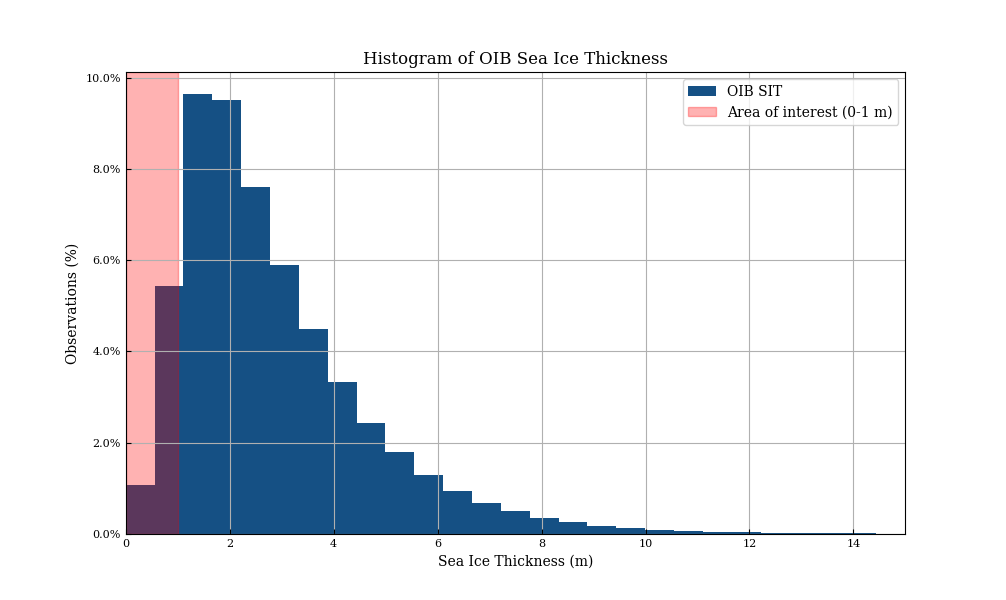
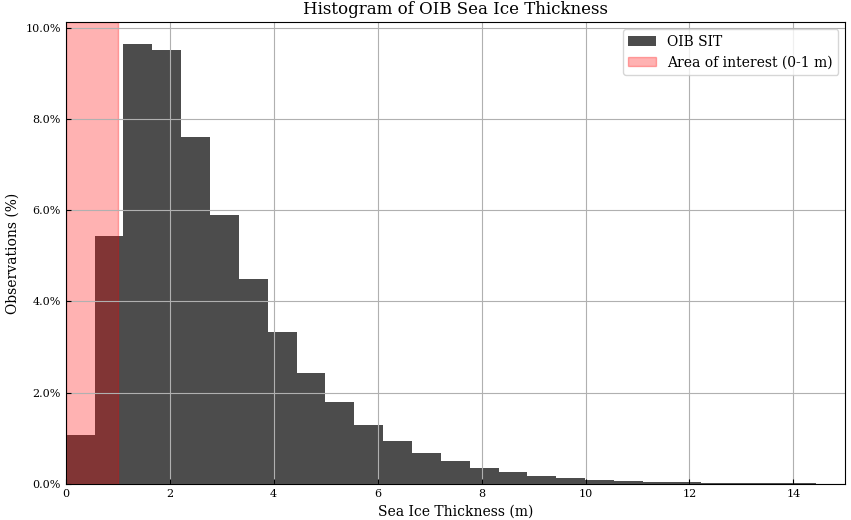
added new figures, started on the box plot

diff --git a/Data processing/Code/test/test_oib.py b/Data processing/Code/test/test_oib.py
@@ -383,7 +383,7 @@ def histogram_oib(data):
 
 	# Create histogram
 	plt.figure(figsize=(10, 6))
-	plt.hist(all_sit, bins=50, label='OIB SIT', color='#155084', weights=np.ones_like(all_sit) / len(all_sit))
+	plt.hist(all_sit, bins=50, label='OIB SIT', color='black', alpha=0.7, weights=np.ones_like(all_sit) / len(all_sit))
 	plt.axvspan(0, 1, color='red', alpha=0.3, label='Area of interest (0-1 m)')
 	#plt.axvline(x=1, color='red', linestyle='--', alpha=0.5)
 	# add thicks inside the histogram
@@ -398,79 +398,139 @@ def histogram_oib(data):
 	plt.show()
  
 def bar__hist_plot(data):
+	bins = [0, 0.2, 0.4, 0.6, 0.8, 1]
+	bin_labels = ['0-0.2', '0.2-0.4', '0.4-0.6', '0.6-0.8', '0.8-1']
+	
+	# unpacking the resampled data
+	oib_sit = data['oib']
+	smos_sit = data['smos']
+	cryo_sit = data['uit'][2]  # Assuming the third element is the SIT data
+	
+	# Flatten the list of arrays into a single array
+	oib = np.concatenate(oib_sit)
+	smos = np.concatenate(smos_sit)
+	cryo = np.concatenate(cryo_sit)
+	
+	nan_mask = ~np.isnan(oib) & ~np.isnan(smos) & ~np.isnan(cryo)
+	oib, smos, cryo = [arr[nan_mask] for arr in (oib, smos, cryo)]
+		
+	smos_means = []
+	cryo_means = []
+	for i in range(len(bins)-1): #
+		bin_mask = (oib >= bins[i]) & (oib < bins[i+1])
+		smos_means.append(np.mean(smos[bin_mask])) 
+		cryo_means.append(np.mean(cryo[bin_mask]))
+
+	# Set up the figure with one main plot and two smaller plots
+	fig = plt.figure(figsize=(10, 10))
+
+	# Layout parameters
+	box_size = 0.35
+	main_height = 0.5
+	gap = (1 - 2 * box_size) / 3
+	gap_main = (1 - main_height - box_size) / 3
+
+	# Create axes
+	ax_main = fig.add_axes([gap, 2 * gap_main + box_size, 1 - 2 * gap, main_height])
+	ax_left = fig.add_axes([gap, gap_main, box_size, box_size])
+	ax_right = fig.add_axes([2 * gap + box_size, gap_main, box_size, box_size])
+
+	# --- Main plot: Bar plot ---
+	x = np.arange(len(bin_labels))
+	width = 0.35  # width of the bars
+
+	ax_main.bar(x - width/2, smos_means, width, label='SMOS', color='blue', alpha=0.7)
+	ax_main.bar(x + width/2, cryo_means, width, label='UiT', color='green', alpha=0.7)
+	ax_main.set_ylabel('Mean SIT [m]')
+	ax_main.set_xlabel('OIB SIT bins [m]')
+	ax_main.tick_params(axis='both', direction='in')
+	ax_main.set_xticks(x)
+	ax_main.set_xticklabels(bin_labels)
+	ax_main.legend(frameon=False)
+	ax_main.grid(axis='y', linestyle='--', alpha=0.5)
+ 
+	# histogram mask
+	range_mask = (oib >= 0) & (oib <= 1)
+	oib_m, smos_m, cryo_m = oib[range_mask], smos[range_mask], cryo[range_mask]
+	bin_edges=np.linspace(0,1,11)
+ 
+	# --- Bottom left plot: Histogram OIB vs Cryo ---
+	ax_left.hist(oib_m, bins=bin_edges, alpha=0.7, label='OIB', color='black', density=True)
+	ax_left.hist(cryo_m, bins=bin_edges, edgecolor='green', color="green", fill=True, linewidth=1, hatch='xx', alpha=0.7, label='UiT', density=True)
+	ax_left.tick_params(axis='both', direction='in')
+	ax_left.set_xlabel('SIT [m]')
+	ax_left.set_ylabel('Counts')
+	ax_left.yaxis.set_major_formatter(PercentFormatter(1))
+	ax_left.grid(alpha=0.5, linestyle='--')
+	ax_left.legend(loc='upper center', bbox_to_anchor=(0.5, 1.08), ncol=2, mode="expand", borderaxespad=0.0, handletextpad=0.3, frameon=False) 
+	
+
+	# --- Bottom right plot: Histogram OIB vs SMOS ---
+	ax_right.hist(oib_m, bins=bin_edges, alpha=0.7, label='OIB', color='black', density=True)
+	ax_right.hist(smos_m, bins=bin_edges, edgecolor='blue', color="blue", fill=True, linewidth=1, hatch='xx', alpha=0.7, label='SMOS', density=True)
+	ax_right.set_xlabel('SIT [m]')
+	ax_right.tick_params(axis='both', direction='in')
+	ax_right.yaxis.set_major_formatter(PercentFormatter(1))
+	ax_right.grid(alpha=0.5, linestyle='--')
+	ax_right.legend(loc='upper center', bbox_to_anchor=(0.5, 1.08), ncol=2, mode="expand", borderaxespad=0.0, handletextpad=0.3, frameon=False)
+
+	plt.show()
+	
+	
+def box_plot(data):
     bins = [0, 0.2, 0.4, 0.6, 0.8, 1]
     bin_labels = ['0-0.2', '0.2-0.4', '0.4-0.6', '0.6-0.8', '0.8-1']
-    
-    # unpacking the resampled data
-    oib_sit = data['oib']
-    smos_sit = data['smos']
-    cryo_sit = data['uit'][2]  # Assuming the third element is the SIT data
-    
-    # Flatten the list of arrays into a single array
-    all_oib = np.concatenate(oib_sit)
-    all_smos = np.concatenate(smos_sit)
-    all_cryo = np.concatenate(cryo_sit)
-    
-    # mask
-    mask = (all_oib >= 0) & (all_oib <= 1)
-    oib = all_oib[mask]
-    smos = all_smos[mask]
-    cryo = all_cryo[mask]
-    
-    smos_means = []
-    cryo_means = []
-    for i in range(len(bins)-1):
-        bin_mask = (oib >= bins[i]) & (oib < bins[i+1])
-        smos_means.append(np.mean(smos[bin_mask]))
-        cryo_means.append(np.mean(cryo[bin_mask]))
+ 
+    # --- Unpack ---
+    oib_sit = data['oib']['sit']
+    smos_sit = data['smos']['sit']
+    cryo_sit = data['uit'][2] # <--- Corrected here
 
-    # Set up the figure with one main plot and two smaller plots
-    fig = plt.figure(figsize=(10, 10))
+    # Flatten
+    oib = np.concatenate(oib_sit)
+    smos = np.concatenate(smos_sit)
+    cryo = np.concatenate(cryo_sit)
 
-    # Layout parameters
-    box_size = 0.4
-    main_height = 0.5
-    gap = (1 - 2 * box_size) / 3
-    gap_main = (1 - main_height - box_size) / 3
+    # Handle NaNs
+    valid_mask = ~np.isnan(oib) & ~np.isnan(cryo) & ~np.isnan(smos)
+    oib, cryo, smos = oib[valid_mask], cryo[valid_mask], smos[valid_mask]
+	
+    # Bin
+    binned_oib_cryo_data, binned_oib_smos_data = [], []
+    for i in range(len(bins) - 1):
+        bin_mask = (oib >= bins[i]) & (oib < bins[i + 1])
+        binned_oib_cryo_data.append(cryo[bin_mask])
+        binned_oib_smos_data.append(smos[bin_mask])
+  
+    # --- Plot ---
+    fig = plt.figure(figsize=(10, 10))  # 10x10 figure size
+    box_width = 0.4
+    gap = (1 - 2 * box_width) / 3
 
-    # Create axes
-    ax_main = fig.add_axes([gap, 2 * gap_main + box_size, 1 - 2 * gap, main_height])
-    ax_left = fig.add_axes([gap, gap_main, box_size, box_size])
-    ax_right = fig.add_axes([2 * gap + box_size, gap_main, box_size, box_size])
+    ax1 = fig.add_axes([gap, 0.2, box_width, 0.6])
+    ax2 = fig.add_axes([2 * gap + box_width, 0.2, box_width, 0.6])
 
-    # --- Main plot: Bar plot ---
-    x = np.arange(len(bin_labels))
-    width = 0.35  # width of the bars
+    # Left box plot
+    ax1.boxplot(binned_oib_cryo_data, positions=np.arange(len(bin_labels)), 
+                medianprops=dict(color='black'), patch_artist=True, showfliers=False,
+                boxprops=dict(facecolor='lightgray', alpha=0.6))
+    ax1.scatter(np.repeat(np.arange(len(bin_labels)), [len(d) for d in binned_oib_cryo_data]),
+                np.concatenate(binned_oib_cryo_data), color='green', alpha=0.7)
+    ax1.set_xticks(np.arange(len(bin_labels)))
+    ax1.set_xticklabels(bin_labels)
+    ax1.set_title('Cryo')
 
-    ax_main.bar(x - width/2, smos_means, width, label='SMOS', color='blue')
-    ax_main.bar(x + width/2, cryo_means, width, label='Cryo', color='salmon')
-    ax_main.set_ylabel('Mean SIT [m]')
-    ax_main.set_xlabel('OIB SIT bins [m]')
-    ax_main.set_title('Mean SIT from SMOS and Cryo by OIB bins')
-    ax_main.set_xticks(x)
-    ax_main.set_xticklabels(bin_labels)
-    ax_main.legend()
-    ax_main.grid(True)
-
-    # --- Bottom left plot: Histogram OIB vs Cryo ---
-    ax_left.hist(oib, bins=10, alpha=0.7, label='OIB', color='black')
-    ax_left.hist(cryo, bins=10, alpha=0.7, label='Cryo', color='green')
-    ax_left.legend()
-    ax_left.grid(True)
-
-    # --- Bottom right plot: Histogram OIB vs SMOS ---
-    ax_right.hist(oib, bins=10, alpha=0.7, label='OIB', color='black')
-    ax_right.hist(smos, bins=10, alpha=0.7, label='SMOS', color='blue')
-    ax_right.legend()
-    ax_right.grid(True)
+    # Right box plot
+    ax2.boxplot(binned_oib_smos_data, positions=np.arange(len(bin_labels)),
+                medianprops=dict(color='black'), patch_artist=True, showfliers=False,
+                boxprops=dict(facecolor='lightgray', alpha=0.6))
+    ax2.scatter(np.repeat(np.arange(len(bin_labels)), [len(d) for d in binned_oib_smos_data]),
+                np.concatenate(binned_oib_smos_data), color='blue', alpha=0.7)
+    ax2.set_xticks(np.arange(len(bin_labels)))
+    ax2.set_xticklabels(bin_labels)
+    ax2.set_title('SMOS')
 
     plt.show()
-    
-    
-    
-	
-    
-
  
 
 
@@ -486,4 +546,6 @@ if __name__ == "__main__":
 	
 	#plot_flight_paths_all(data)
 	#histogram_oib(data)
-	bar__hist_plot(resampled_data)
+	#smos_histogram(resampled_data)
+	#bar__hist_plot(resampled_data)
+	box_plot(resampled_data)

diff --git a/Data processing/Code/test/plotting functions.py b/Data processing/Code/test/plotting functions.py
@@ -11,13 +11,23 @@ def plot_2x2():
 	fig = plt.figure(figsize=(10, 10))
 	box_size = 0.4
 	gap = (1-2*box_size)/4
-	ax31 = fig.add_axes([gap, gap, box_size, box_size])
-	ax32 = fig.add_axes([box_size+3*gap, gap, box_size, box_size])
-	ax21 = fig.add_axes([gap, box_size+3*gap, box_size, box_size])
-	ax22 = fig.add_axes([box_size+3*gap, box_size+3*gap, box_size, box_size])
+	ax31 = fig.add_axes([gap, gap, box_size, box_size]) # bottom left
+	ax32 = fig.add_axes([box_size+3*gap, gap, box_size, box_size]) # bottom right
+	ax21 = fig.add_axes([gap, box_size+3*gap, box_size, box_size]) # top left
+	ax22 = fig.add_axes([box_size+3*gap, box_size+3*gap, box_size, box_size]) # top right
 	
 	plt.show()
  
+def plot_2():
+    fig = plt.figure(figsize=(10, 5))  # 10x10 figure size
+    box_width = 0.4  # Width of each subplot
+    gap = (1 - 2 * box_width) / 3  # Gap between plots and edges
+
+    ax1 = fig.add_axes([gap, 0.2, box_width, 0.6])
+    ax2 = fig.add_axes([2 * gap + box_width, 0.2, box_width, 0.6])
+
+    
+    plt.show()
  
 def plot_1x2():
 	fig = plt.figure(figsize=(10, 10))
@@ -42,5 +52,8 @@ def plot_1x2():
 
 	plt.show()
 
-plot_1x2()
+
+#plot_2x2()
+plot_2()
+#plot_1x2()
 
